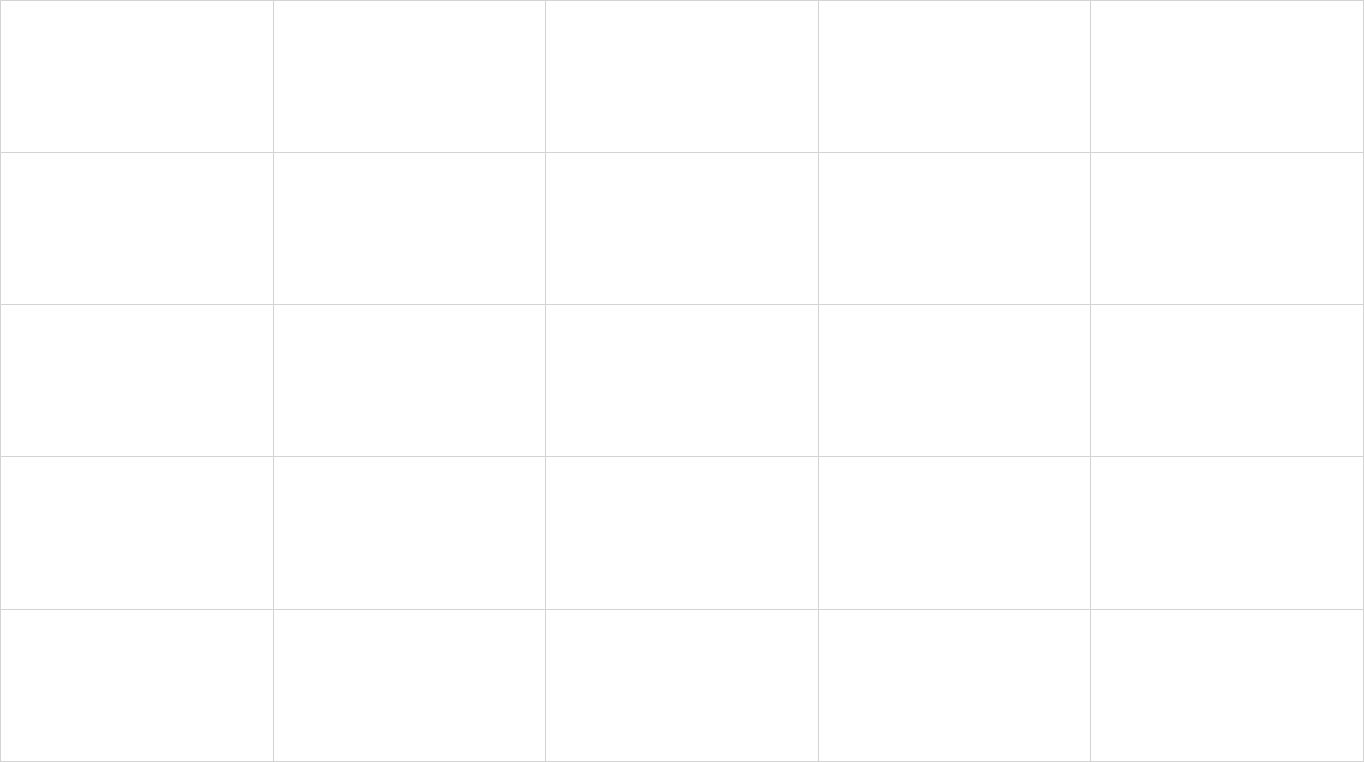
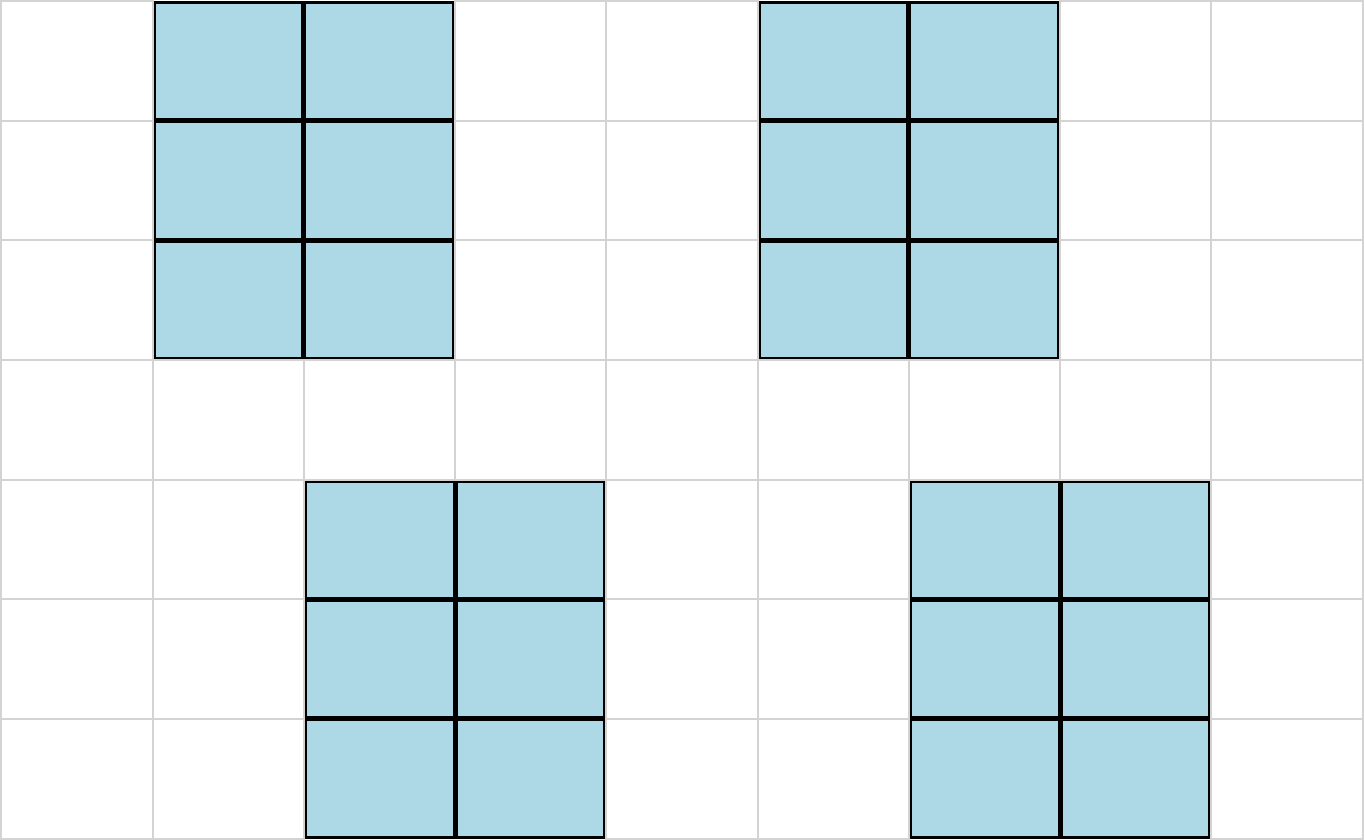
added 4th preset, changed preset images to have the same height and width

diff --git a/src/style.css b/src/style.css
@@ -20,7 +20,7 @@
     margin: auto;
     padding: 15px;
     padding-top: 5px;
-    padding-right: 5px;
+    padding-right: 15px;
     /* padding-top: 50px; */
     border: 3px solid darkslateblue;
     border-radius: 5px;
@@ -53,11 +53,11 @@
     border-radius: 5px; /* for hovering */
     transition: 0.3s;
     float: right;
-    margin-left: 5px;
+    /* margin-left: 15px; */
     color: slateblue;
-    /* position: absolute;
-  right: 24.5%;
-  top: 8%; */
+    position: fixed;
+    right: 24.5%;
+    top: 11.5%;
 }
 .closePresetContent:hover {
     color: darkslateblue;
@@ -65,7 +65,8 @@
 }
 .presetBtn {
     margin-top: 15px;
-    margin-left: 20px;
+    margin-left: 10px;
+    margin-right: 10px;
     width: 40%;
     padding-top: 5px;
     background-color: white;

diff --git a/src/Sitzplatzplaner.ts b/src/Sitzplatzplaner.ts
@@ -43,7 +43,7 @@ export default defineComponent({
       firstRowRules: [] as string[],
       notBackRules: [] as string[],
       isMouseDown: false,
-      presetCount: 3,
+      presetCount: 4,
       presetPageOpen: false,
       fieldBtnContextMenuOpen: false,
       contextMenuTop: "0px",
